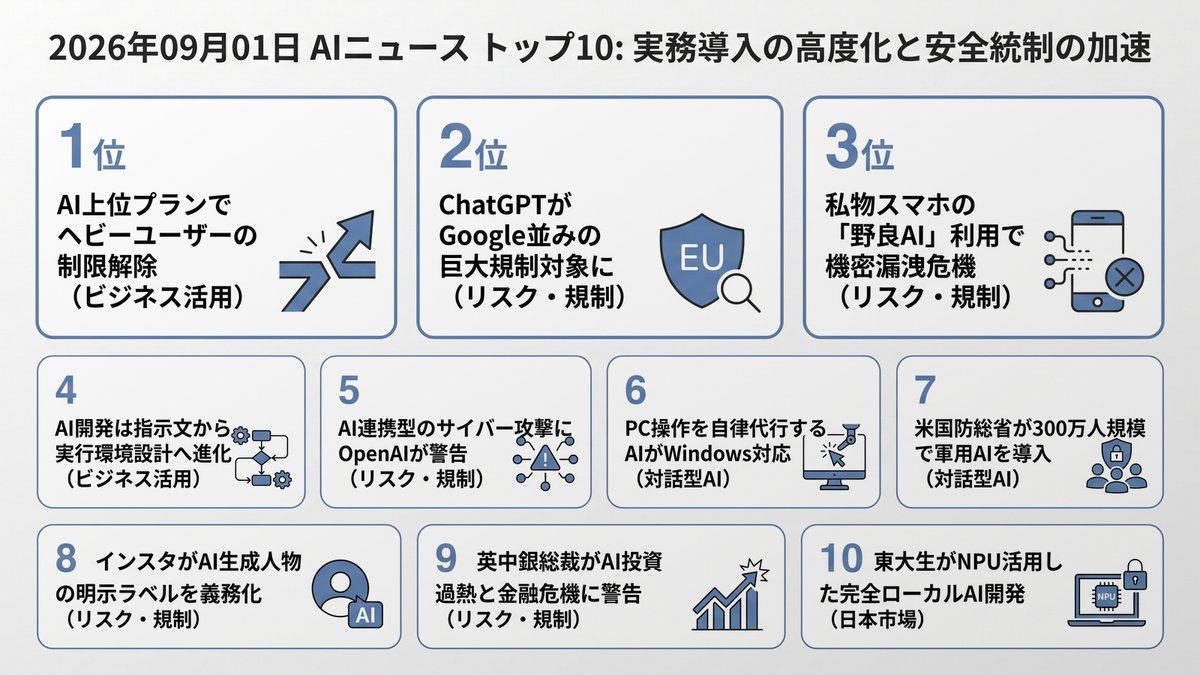
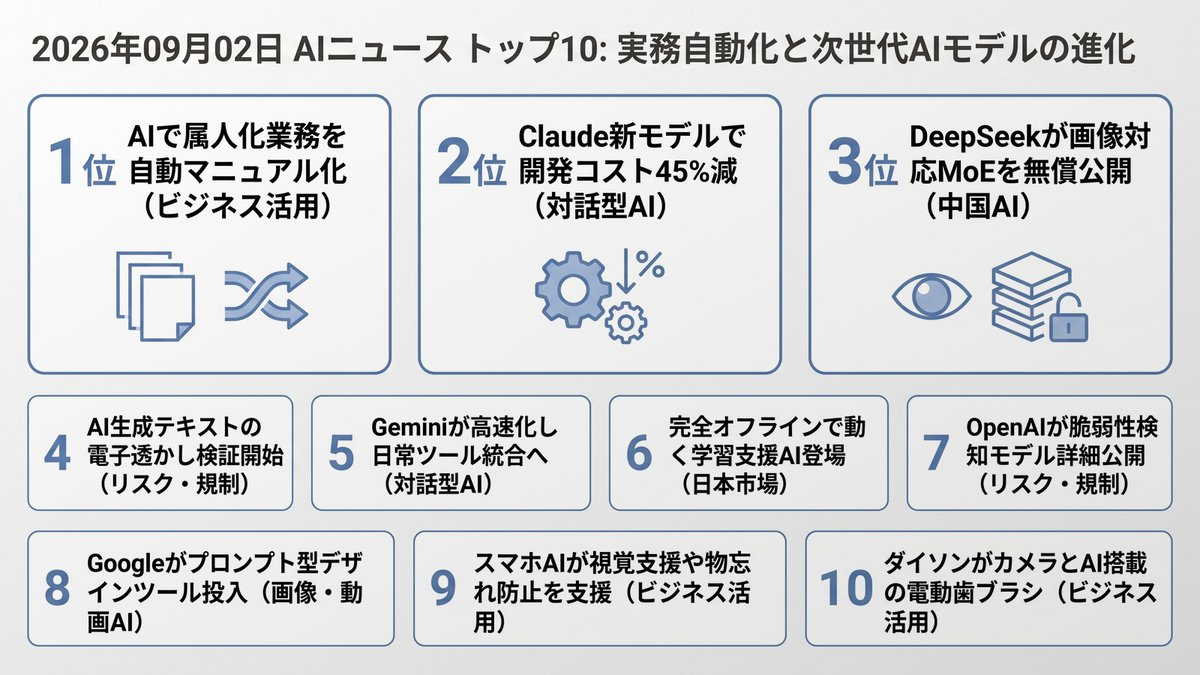
Morning Brief delivered [skip ci]

Changed region(s): [[0.0, 0.1244, 0.9867, 0.9644], [0.0308, 0.0311, 0.9558, 0.0933]]

diff --git a/docs/index.html b/docs/index.html
@@ -12,16 +12,16 @@
     <!-- OGP_START -->
 <meta property="og:type" content="website">
 <meta property="og:site_name" content="AI ニュース TOP10">
-<meta property="og:title" content="実務導入の高度化と安全統制の加速 | AI ニュース TOP10">
-<meta property="og:description" content="実務へのAI浸透と安全統制が同時に加速しています。 本日のトップ: AI上位プランでヘビーユーザーの制限解除">
+<meta property="og:title" content="実務自動化と次世代AIモデルの進化 | AI ニュース TOP10">
+<meta property="og:description" content="業務の属人化解消から高度モデルまで動向凝縮 本日のトップ: AIで属人化業務を自動マニュアル化">
 <meta property="og:image" content="https://tadfuji.github.io/ai-news-bot/ogp_card.jpg">
 <meta property="og:url" content="https://tadfuji.github.io/ai-news-bot/">
 <meta name="twitter:card" content="summary_large_image">
-<meta name="twitter:title" content="実務導入の高度化と安全統制の加速 | AI ニュース TOP10">
-<meta name="twitter:description" content="実務へのAI浸透と安全統制が同時に加速しています。">
+<meta name="twitter:title" content="実務自動化と次世代AIモデルの進化 | AI ニュース TOP10">
+<meta name="twitter:description" content="業務の属人化解消から高度モデルまで動向凝縮">
 <meta name="twitter:image" content="https://tadfuji.github.io/ai-news-bot/ogp_card.jpg">
-<meta name="description" content="実務へのAI浸透と安全統制が同時に加速しています。 世界のAIニュースを毎朝日本語で厳選してお届け。">
-<script type="application/ld+json">{"@context": "https://schema.org", "@type": "ItemList", "name": "AI ニュース TOP10 — 実務導入の高度化と安全統制の加速", "itemListElement": [{"@type": "ListItem", "position": 1, "name": "OpenAIやAnthropicが上位シート新設、企業がAI利用量に応じた個別配分を本格化", "url": "https://atmarkit.itmedia.co.jp/ait/articles/2609/01/news009.html"}, {"@type": "ListItem", "position": 2, "name": "EUがChatGPTを「超大規模検索エンジン」に指定、Google並みの規制対象へ", "url": "https://www.techno-edge.net/article/2026/09/01/5448.html"}, {"@type": "ListItem", "position": 3, "name": "私物スマホでの「野良AI」利用に潜む機密漏洩リスクと現場の課題", "url": "https://www.itmedia.co.jp/business/articles/2609/01/news007.html"}, {"@type": "ListItem", "position": 4, "name": "AI開発は「プロンプト」から「ハーネス」へ、自律エージェント時代の成熟度指標", "url": "https://atmarkit.itmedia.co.jp/ait/articles/2609/01/news012.html"}, {"@type": "ListItem", "position": 5, "name": "OpenAIが高度な「AIスウォーム攻撃」を警告、企業のサイバー防衛に急務", "url": "https://www.zdnet.com/article/openai-warns-malicious-agents-coming-recommended-action/"}, {"@type": "ListItem", "position": 6, "name": "PerplexityのPC操作AIエージェントがWindowsに対応、複雑なタスクを自律実行", "url": "https://www.zdnet.com/article/perplexity-ai-agentic-personal-computer-complex-tasks-windows/"}, {"@type": "ListItem", "position": 7, "name": "米国防総省がChatGPTとGrokの軍用版を導入、職員300万人にセキュアなAIを提供", "url": "https://techcrunch.com/2026/08/31/the-pentagon-now-has-its-own-version-of-chatgpt-and-grok/"}, {"@type": "ListItem", "position": 8, "name": "InstagramがAI生成プロフィールへの明示ラベル義務化とリーチ制限を発表", "url": "https://techcrunch.com/2026/08/31/instagram-puts-new-limits-on-undisclosed-ai-profiles/"}, {"@type": "ListItem", "position": 9, "name": "イングランド銀行総裁がAI投資の過熱と市場リスクを警告、金融危機への懸念", "url": "https://the-decoder.com/bank-of-england-chief-warns-that-inflated-ai-valuations-and-rising-leverage-could-trigger-the-next-financial-crisis/"}, {"@type": "ListItem", "position": 10, "name": "東大生AIハッカソンでSurface搭載NPUを駆使した完全ローカルAIアプリが優勝", "url": "https://pc.watch.impress.co.jp/docs/topic/special/2133110.html"}]}</script>
+<meta name="description" content="業務の属人化解消から高度モデルまで動向凝縮 世界のAIニュースを毎朝日本語で厳選してお届け。">
+<script type="application/ld+json">{"@context": "https://schema.org", "@type": "ItemList", "name": "AI ニュース TOP10 — 実務自動化と次世代AIモデルの進化", "itemListElement": [{"@type": "ListItem", "position": 1, "name": "ChatGPTを活用して属人化した業務を可視化する「自分専用マニュアル」作成術", "url": "https://www.itmedia.co.jp/business/articles/2609/02/news011.html"}, {"@type": "ListItem", "position": 2, "name": "Anthropicが新モデル「Claude Fable 5.1」を公開、コスト削減とエージェント性能向上を実現", "url": "https://the-decoder.com/anthropics-claude-fable-5-1-promises-better-coding-and-research-at-up-to-45-percent-less/"}, {"@type": "ListItem", "position": 3, "name": "DeepSeekが画像対応の最新MoEモデル「DeepSeek-V4-Flash-Vision-Exp」を無償公開", "url": "https://pc.watch.impress.co.jp/docs/news/2137448.html"}, {"@type": "ListItem", "position": 4, "name": "AnthropicがClaude生成テキストの電子透かし検証APIを提供開始、AI生成物の識別へ", "url": "https://the-decoder.com/anthropic-opens-claude-ai-text-detection-to-regulators-media-fact-checkers-and-others/"}, {"@type": "ListItem", "position": 5, "name": "GoogleがGemini 3.7 Flashなど最新AIアップデートを発表、日常ツールのAI統合を加速", "url": "https://blog.google/innovation-and-ai/technology/google-ai-updates-august-2026/"}, {"@type": "ListItem", "position": 6, "name": "端末内完結で外部送信なし、ローカルLLMを用いた高校数学学習支援iOSアプリが公開", "url": "https://zenn.dev/ai_chi/articles/cee2081ac9255a"}, {"@type": "ListItem", "position": 7, "name": "OpenAIが新モデル「Astra」の情報を公開、自律的な脆弱性検知能力に懸念と期待", "url": "https://techcrunch.com/2026/09/01/open-ais-astra-model-is-on-the-way-and-very-good-at-breaking-into-computer-systems/"}, {"@type": "ListItem", "position": 8, "name": "GoogleがCanva対抗のAIデザインツール「Google Pics」を投入、プロンプト指示で制作", "url": "https://techcrunch.com/2026/09/01/googles-answer-to-canva-is-an-ai-tool-where-you-prompt-instead-of-design/"}, {"@type": "ListItem", "position": 9, "name": "GoogleがAndroidにGemini搭載の新機能を追加、視覚支援や持ち物記憶を支援", "url": "https://techcrunch.com/2026/09/01/googles-android-update-tackles-motion-sickness-accessibility-and-more/"}, {"@type": "ListItem", "position": 10, "name": "ダイソンがAIとカメラ搭載の電動歯ブラシ「CameraJet」を発表、歯間を自動認識して洗浄", "url": "https://www.techno-edge.net/article/2026/09/02/5453.html"}]}</script>
 <!-- OGP_END -->
     <style>
         :root {
@@ -391,16 +391,16 @@
 
         <main id="news-container">
             <!-- PRERENDER_START -->
-<article class="news-card" data-category="ビジネス活用"><div style="display:flex;align-items:center;margin-bottom:5px;"><span class="news-rank">1</span><span class="news-category" data-category="ビジネス活用">ビジネス活用</span></div><div class="news-oneliner">💡 AI上位プランでヘビーユーザーの制限解除</div><h2 class="news-title">OpenAIやAnthropicが上位シート新設、企業がAI利用量に応じた個別配分を本格化</h2><p class="news-summary">OpenAI、Anthropic、Cursorの3社が、AIを多用する特定の従業員にのみ通常版の約5倍の利用枠を割り当てられる「Premiumシート」の提供を揃って開始しました。全社員一律の定額契約や従量課金の手続きの煩雑さを解消し、AI活用度に応じた柔軟なコスト配分と全社導入を容易にします。ビジネスパーソンにとっては、業務でAIを徹底活用するヘビーユーザーが制限に悩まされずに生産性を最大化できる環境が整います。</p><div class="news-why">📌 なぜ重要？ AIヘビーユーザーにリソースを集中投資し、組織全体の生産性を効率的に引き上げる運用が可能になります。</div><div class="news-action">👉 今日の行動：自チーム内でAI活用頻度が高い業務と担当者をリストアップしてみてください。</div><div class="news-meta"><span class="news-source">📰 ITmedia AI+</span><span class="news-link"><a href="https://atmarkit.itmedia.co.jp/ait/articles/2609/01/news009.html" target="_blank" rel="noopener">→ 元記事を読む</a></span></div></article>
-<article class="news-card" data-category="リスク・規制"><div style="display:flex;align-items:center;margin-bottom:5px;"><span class="news-rank">2</span><span class="news-category" data-category="リスク・規制">リスク・規制</span></div><div class="news-oneliner">💡 ChatGPTがGoogle並みの巨大規制対象に</div><h2 class="news-title">EUがChatGPTを「超大規模検索エンジン」に指定、Google並みの規制対象へ</h2><p class="news-summary">欧州委員会は、OpenAIのChatGPTをデジタルサービス法（DSA）における「超大規模オンライン検索エンジン」に指定しました。従来はGoogleとBingのみだった枠組みにAIチャットボットが加わったことで、情報提供インフラとしてのAIに対する厳格なリスク評価や説明責任が課されます。違反時には年間売上の最大6%の制裁金が科される可能性があり、グローバルで事業を展開する企業のAIサービス提供基準やコンプライアンス設計に重大な影響を与えます。</p><div class="news-why">📌 なぜ重要？ AIが社会インフラとして認められた証左であり、グローバル展開時の法規制対応コストに直結します。</div><div class="news-action">👉 今日の行動：自社のグローバル事業におけるAI利用ポリシーや準拠法規を確認してみてください。</div><div class="news-meta"><span class="news-source">📰 TechnoEdge</span><span class="news-link"><a href="https://www.techno-edge.net/article/2026/09/01/5448.html" target="_blank" rel="noopener">→ 元記事を読む</a></span></div></article>
-<article class="news-card" data-category="リスク・規制"><div style="display:flex;align-items:center;margin-bottom:5px;"><span class="news-rank">3</span><span class="news-category" data-category="リスク・規制">リスク・規制</span></div><div class="news-oneliner">💡 私物スマホの「野良AI」利用で機密漏洩危機</div><h2 class="news-title">私物スマホでの「野良AI」利用に潜む機密漏洩リスクと現場の課題</h2><p class="news-summary">社内システムでのデータ分析に手間がかかることから、売上や在庫などの画面を私物スマートフォンで撮影し、個人アカウントの生成AIに読み込ませる「野良AI」の利用が現場で多発しています。悪意のない業務効率化目的であっても、原価や顧客データなどの機密情報流出リスクを招きます。安全に使える公認AI環境の整備と、現場の実態に即したセキュリティポリシーの周知が企業に強く求められています。</p><div class="news-why">📌 なぜ重要？ 効率化目的の個人利用が重大なセキュリティ事故を引き起こすリスクがあります。</div><div class="news-action">👉 今日の行動：業務データを私物デバイスや個人アカウントで扱っていないか作業手順を見直してください。</div><div class="news-meta"><span class="news-source">📰 ITmedia ビジネスオンライン</span><span class="news-link"><a href="https://www.itmedia.co.jp/business/articles/2609/01/news007.html" target="_blank" rel="noopener">→ 元記事を読む</a></span></div></article>
-<article class="news-card" data-category="ビジネス活用"><div style="display:flex;align-items:center;margin-bottom:5px;"><span class="news-rank">4</span><span class="news-category" data-category="ビジネス活用">ビジネス活用</span></div><div class="news-oneliner">💡 AI開発は指示文から実行環境設計へ進化</div><h2 class="news-title">AI開発は「プロンプト」から「ハーネス」へ、自律エージェント時代の成熟度指標</h2><p class="news-summary">ソフトウェア開発におけるAI活用が、指示文を工夫する「プロンプト」、文脈を渡す「コンテキスト」を経て、実行環境や品質検証パイプラインを設計する「ハーネスエンジニアリング」の段階に突入しています。自律型AIエージェントが複数並列で稼働する中、人間の役割はコードを書くことから仕様策定・承認・監督へと移行しており、開発現場の生産性向上と業務プロセスの再構築が加速しています。</p><div class="news-why">📌 なぜ重要？ AIを単なる支援ツールではなく、自律エージェントの監督者として制御する設計思想が実務の標準になります。</div><div class="news-action">👉 今日の行動：日常の定型業務を「AIへの入力・実行・検証」の3ステップに分解して整理してみましょう。</div><div class="news-meta"><span class="news-source">📰 ITmedia AI+</span><span class="news-link"><a href="https://atmarkit.itmedia.co.jp/ait/articles/2609/01/news012.html" target="_blank" rel="noopener">→ 元記事を読む</a></span></div></article>
-<article class="news-card" data-category="リスク・規制"><div style="display:flex;align-items:center;margin-bottom:5px;"><span class="news-rank">5</span><span class="news-category" data-category="リスク・規制">リスク・規制</span></div><div class="news-oneliner">💡 AI連携型のサイバー攻撃にOpenAIが警告</div><h2 class="news-title">OpenAIが高度な「AIスウォーム攻撃」を警告、企業のサイバー防衛に急務</h2><p class="news-summary">OpenAIは、自律的に連携する複数のAIエージェントが悪意を持ってサイバー攻撃を仕掛ける「AIスウォーム攻撃」が数カ月以内に現実化すると警告を発しました。従来の防御策では対応が困難な高速かつ協調的な攻撃手法が登場するため、企業はAIを活用した自動防御体制やアクセス制御の強化を早急に進める必要があります。ビジネスパーソンにとっても、フィッシングや不正アクセスの高度化に対する警戒が不可欠です。</p><div class="news-why">📌 なぜ重要？ 攻撃側もAIで自動連携するため、人間による監視だけでは防ぎきれない新たな脅威への備えが求められます。</div><div class="news-action">👉 今日の行動：怪しいメールや不審な社内通知に対する報告手順をチーム内で再確認してください。</div><div class="news-meta"><span class="news-source">📰 ZDNet AI</span><span class="news-link"><a href="https://www.zdnet.com/article/openai-warns-malicious-agents-coming-recommended-action/" target="_blank" rel="noopener">→ 元記事を読む</a></span></div></article>
-<article class="news-card" data-category="対話型AI"><div style="display:flex;align-items:center;margin-bottom:5px;"><span class="news-rank">6</span><span class="news-category" data-category="対話型AI">対話型AI</span></div><div class="news-oneliner">💡 PC操作を自律代行するAIがWindows対応</div><h2 class="news-title">PerplexityのPC操作AIエージェントがWindowsに対応、複雑なタスクを自律実行</h2><p class="news-summary">PerplexityがPC上で複雑なタスクを自律的にこなすAIエージェント機能のWindows版を展開しました。ユーザーからの最小限の指示で、画面操作や情報検索、ファイル処理などの複合的な作業を代行します。ビジネスパーソンにとって、日常的なリサーチやPC上の定型作業をAIエージェントに任せることで、デスクワークの生産性を劇的に向上させる可能性を秘めています。</p><div class="news-why">📌 なぜ重要？ ブラウザ検索を超えてOSレベルのPC作業を代行させるエージェント運用が身近になります。</div><div class="news-action">👉 今日の行動：PCで行っている反復的な検索・データ集計作業を1つ選んで手順を書き出してみてください。</div><div class="news-meta"><span class="news-source">📰 ZDNet AI</span><span class="news-link"><a href="https://www.zdnet.com/article/perplexity-ai-agentic-personal-computer-complex-tasks-windows/" target="_blank" rel="noopener">→ 元記事を読む</a></span></div></article>
-<article class="news-card" data-category="対話型AI"><div style="display:flex;align-items:center;margin-bottom:5px;"><span class="news-rank">7</span><span class="news-category" data-category="対話型AI">対話型AI</span></div><div class="news-oneliner">💡 米国防総省が300万人規模で軍用AIを導入</div><h2 class="news-title">米国防総省がChatGPTとGrokの軍用版を導入、職員300万人にセキュアなAIを提供</h2><p class="news-summary">米国防総省は、セキュアな専用ポータルを通じて、OpenAIのChatGPTとxAIのGrokの軍用カスタム版を300万人の軍・民間職員に展開しました。一般消費者向けチャンネルと異なりデータ収集を遮断した環境で、文書作成、物流管理、方針策定などの日常業務や調達分析を支援します。公的機関や大企業が機密性を担保しながら商用最先端AIを大規模導入するモデルケースとなります。</p><div class="news-why">📌 なぜ重要？ 極めて高いセキュリティ要件を持つ組織でも、データ遮断環境下での大規模AI活用が現実解となっています。</div><div class="news-action">👉 今日の行動：社内のAI利用環境がデータ学習オフに設定されているか確認してみましょう。</div><div class="news-meta"><span class="news-source">📰 TechCrunch AI</span><span class="news-link"><a href="https://techcrunch.com/2026/08/31/the-pentagon-now-has-its-own-version-of-chatgpt-and-grok/" target="_blank" rel="noopener">→ 元記事を読む</a></span></div></article>
-<article class="news-card" data-category="リスク・規制"><div style="display:flex;align-items:center;margin-bottom:5px;"><span class="news-rank">8</span><span class="news-category" data-category="リスク・規制">リスク・規制</span></div><div class="news-oneliner">💡 インスタがAI生成人物の明示ラベルを義務化</div><h2 class="news-title">InstagramがAI生成プロフィールへの明示ラベル義務化とリーチ制限を発表</h2><p class="news-summary">米メタはInstagramにおいて、AIで作成された人物アカウントに対して「AI生成プロフィール」ラベルの表示を義務付け、未表示のアカウントにはリーチ制限を課す新方針を発表しました。AIインフルエンサーの急増に伴い、本物の人間と誤認させるアカウントやヘルスケア関連の不当な宣伝を防ぐ目的があります。SNSマーケティングやブランド運用を行う企業にとって、透明性の確保と規約順守が必須となります。</p><div class="news-why">📌 なぜ重要？ SNSやマーケティングでのAI利用において、透明性の開示がアルゴリズム上の評価に直結します。</div><div class="news-action">👉 今日の行動：自社SNSや販促物でAI生成コンテンツを使用している箇所の表示方針を点検してください。</div><div class="news-meta"><span class="news-source">📰 TechCrunch AI</span><span class="news-link"><a href="https://techcrunch.com/2026/08/31/instagram-puts-new-limits-on-undisclosed-ai-profiles/" target="_blank" rel="noopener">→ 元記事を読む</a></span></div></article>
-<article class="news-card" data-category="リスク・規制"><div style="display:flex;align-items:center;margin-bottom:5px;"><span class="news-rank">9</span><span class="news-category" data-category="リスク・規制">リスク・規制</span></div><div class="news-oneliner">💡 英中銀総裁がAI投資過熱と金融危機に警告</div><h2 class="news-title">イングランド銀行総裁がAI投資の過熱と市場リスクを警告、金融危機への懸念</h2><p class="news-summary">イングランド銀行のアンドリュー・ベイリー総裁はG20財務相会議において、膨張するAI企業の企業価値評価と市場のレバレッジ拡大が将来の金融危機の引き金になり得ると警告しました。ハイパースケーラーとAIスタートアップ間の相互出資構造により、主要プレイヤーの失速が連鎖的な市場混乱を招くリスクを指摘しています。ビジネスパーソンや投資家にとって、AIバブルの持続性とリスク管理への視点が重要になります。</p><div class="news-why">📌 なぜ重要？ AI業界への過度な資金集中と相互依存構造が、マクロ経済の不確実性要因として意識されています。</div><div class="news-action">👉 今日の行動：自社のAI関連投資やツール契約の費用対効果を客観的な指標で測定してみましょう。</div><div class="news-meta"><span class="news-source">📰 The Decoder</span><span class="news-link"><a href="https://the-decoder.com/bank-of-england-chief-warns-that-inflated-ai-valuations-and-rising-leverage-could-trigger-the-next-financial-crisis/" target="_blank" rel="noopener">→ 元記事を読む</a></span></div></article>
-<article class="news-card" data-category="日本市場"><div style="display:flex;align-items:center;margin-bottom:5px;"><span class="news-rank">10</span><span class="news-category" data-category="日本市場">日本市場</span></div><div class="news-oneliner">💡 東大生がNPU活用した完全ローカルAI開発</div><h2 class="news-title">東大生AIハッカソンでSurface搭載NPUを駆使した完全ローカルAIアプリが優勝</h2><p class="news-summary">東京大学で開催されたAIハッカソンにて、Snapdragon搭載Surface ProのNPUを活用し、クラウドを一切使わずに完全ローカルで動作する顔合成アプリが優勝しました。機密文書編集アシスタントやジェスチャー操作など、NPUによる省電力・高セキュリティなオンデバイスAIの実用性が示されました。通信環境に左右されず、機密情報を社外に出さない新しい業務端末の可能性を示唆しています。</p><div class="news-why">📌 なぜ重要？ クラウドを介さず端末内で完結するオンデバイスAIが、機密保持と応答速度の両立手段として台頭しています。</div><div class="news-action">👉 今日の行動：社外秘データを扱う業務でローカル処理が可能なAIツールの導入余地を検討してみてください。</div><div class="news-meta"><span class="news-source">📰 PC Watch</span><span class="news-link"><a href="https://pc.watch.impress.co.jp/docs/topic/special/2133110.html" target="_blank" rel="noopener">→ 元記事を読む</a></span></div></article>
+<article class="news-card" data-category="ビジネス活用"><div style="display:flex;align-items:center;margin-bottom:5px;"><span class="news-rank">1</span><span class="news-category" data-category="ビジネス活用">ビジネス活用</span></div><div class="news-oneliner">💡 AIで属人化業務を自動マニュアル化</div><h2 class="news-title">ChatGPTを活用して属人化した業務を可視化する「自分専用マニュアル」作成術</h2><p class="news-summary">日常業務で発生する判断の迷いや調べ直しの時間を削減するため、ChatGPTを活用して自分専用の業務マニュアルを作成する実践的な手法が紹介されました。作業手順を箇条書きや音声入力で洗い出し、AIに不足情報のヒアリングを行わせることで、無意識に行っていた判断基準を言語化できます。さらに、完成したマニュアルからカスタム指示（Custom GPTs等）を自動生成し、定型業務の自動化へ繋げる具体的なステップを提示しています。</p><div class="news-why">📌 なぜ重要？ 個人の暗黙知を形式知化することで、チーム全体の生産性向上と業務自動化を同時に推進できます。</div><div class="news-action">👉 今日の行動：今日行うルーティン業務の手順を1つ箇条書きで書き出してみましょう。</div><div class="news-meta"><span class="news-source">📰 ITmedia ビジネスオンライン</span><span class="news-link"><a href="https://www.itmedia.co.jp/business/articles/2609/02/news011.html" target="_blank" rel="noopener">→ 元記事を読む</a></span></div></article>
+<article class="news-card" data-category="対話型AI"><div style="display:flex;align-items:center;margin-bottom:5px;"><span class="news-rank">2</span><span class="news-category" data-category="対話型AI">対話型AI</span></div><div class="news-oneliner">💡 Claude新モデルで開発コスト45%減</div><h2 class="news-title">Anthropicが新モデル「Claude Fable 5.1」を公開、コスト削減とエージェント性能向上を実現</h2><p class="news-summary">Anthropicはコーディングや調査能力を強化した最新AIモデル「Claude Fable 5.1」および「Claude Mythos 5.1」を発表しました。キャッシュ読み取りコストの大幅引き下げにより、自律型エージェント処理などの複雑なワークフローにおいて最大45%の費用削減が可能となります。また、Microsoft CopilotやAWS Bedrockにも即時提供され、企業の業務プロセス自動化を強力に後押しします。</p><div class="news-why">📌 なぜ重要？ エージェント構築コストが大幅に下がり、企業内での自律型ワークフロー導入が一気に現実的になります。</div><div class="news-action">👉 今日の行動：自社で利用中のAIモデルのコスト効率とエージェント連携の可能性を検討してみましょう。</div><div class="news-meta"><span class="news-source">📰 The Decoder</span><span class="news-link"><a href="https://the-decoder.com/anthropics-claude-fable-5-1-promises-better-coding-and-research-at-up-to-45-percent-less/" target="_blank" rel="noopener">→ 元記事を読む</a></span></div></article>
+<article class="news-card" data-category="中国AI"><div style="display:flex;align-items:center;margin-bottom:5px;"><span class="news-rank">3</span><span class="news-category" data-category="中国AI">中国AI</span></div><div class="news-oneliner">💡 DeepSeekが画像対応MoEを無償公開</div><h2 class="news-title">DeepSeekが画像対応の最新MoEモデル「DeepSeek-V4-Flash-Vision-Exp」を無償公開</h2><p class="news-summary">中国のAI企業DeepSeekが、画像認識に対応した最新マルチモーダルモデル「DeepSeek-V4-Flash-Vision-Exp」の重みをMITライセンスで商用利用可能として無償公開しました。総パラメータ284BのMoE構造を採用し、Anthropicの「Claude Opus 4.8」に匹敵・一部凌駕する画像エージェント性能を記録しています。自社インフラでのローカル運用や低コストAPI利用が可能です。</p><div class="news-why">📌 なぜ重要？ オープンソースの高性能ビジョンモデル登場により、機密データを外部に出さず画像解析を行う選択肢が広がります。</div><div class="news-action">👉 今日の行動：自社インフラでのローカルマルチモーダル運用の実現可能性を技術チームと共有してみましょう。</div><div class="news-meta"><span class="news-source">📰 PC Watch</span><span class="news-link"><a href="https://pc.watch.impress.co.jp/docs/news/2137448.html" target="_blank" rel="noopener">→ 元記事を読む</a></span></div></article>
+<article class="news-card" data-category="リスク・規制"><div style="display:flex;align-items:center;margin-bottom:5px;"><span class="news-rank">4</span><span class="news-category" data-category="リスク・規制">リスク・規制</span></div><div class="news-oneliner">💡 AI生成テキストの電子透かし検証開始</div><h2 class="news-title">AnthropicがClaude生成テキストの電子透かし検証APIを提供開始、AI生成物の識別へ</h2><p class="news-summary">Anthropicは、Claudeが生成したテキストに含まれる電子透かしを検証するためのAPIを規制当局やメディア、企業向けに提供開始しました。EU AI法への準拠を目的としており、文章の単語選択パターンから統計的にAI生成物であるかを高精度で判別します。企業のコンプライアンス管理や契約書・成果物のAI利用チェックへの活用が期待されます。</p><div class="news-why">📌 なぜ重要？ 法規制対応とガバナンス強化において、生成コンテンツの出所確認が企業必須の要件となります。</div><div class="news-action">👉 今日の行動：自社の生成AI利用ガイドラインに生成物の検証プロセスが含まれているか確認しましょう。</div><div class="news-meta"><span class="news-source">📰 The Decoder</span><span class="news-link"><a href="https://the-decoder.com/anthropic-opens-claude-ai-text-detection-to-regulators-media-fact-checkers-and-others/" target="_blank" rel="noopener">→ 元記事を読む</a></span></div></article>
+<article class="news-card" data-category="対話型AI"><div style="display:flex;align-items:center;margin-bottom:5px;"><span class="news-rank">5</span><span class="news-category" data-category="対話型AI">対話型AI</span></div><div class="news-oneliner">💡 Geminiが高速化し日常ツール統合へ</div><h2 class="news-title">GoogleがGemini 3.7 Flashなど最新AIアップデートを発表、日常ツールのAI統合を加速</h2><p class="news-summary">Googleは8月のAI関連アップデートを総括し、コーディングやエージェント処理を大幅に高速・低コスト化した「Gemini 3.7 Flash」の提供や、Google Workspace・Android連携の強化を発表しました。Geminiアプリの月間ユーザー数が10億人を突破したほか、検索機能での学習支援ツールなど、仕事から教育まで幅広い領域で実用的なAI機能が拡充されています。</p><div class="news-why">📌 なぜ重要？ ビジネスで多用されるツールへのAI統合が加速し、普段の業務フローそのものの変革が求められます。</div><div class="news-action">👉 今日の行動：普段利用しているWorkspaceツールのAI連携設定や新機能を見直してみましょう。</div><div class="news-meta"><span class="news-source">📰 Google AI Blog</span><span class="news-link"><a href="https://blog.google/innovation-and-ai/technology/google-ai-updates-august-2026/" target="_blank" rel="noopener">→ 元記事を読む</a></span></div></article>
+<article class="news-card" data-category="日本市場"><div style="display:flex;align-items:center;margin-bottom:5px;"><span class="news-rank">6</span><span class="news-category" data-category="日本市場">日本市場</span></div><div class="news-oneliner">💡 完全オフラインで動く学習支援AI登場</div><h2 class="news-title">端末内完結で外部送信なし、ローカルLLMを用いた高校数学学習支援iOSアプリが公開</h2><p class="news-summary">AI致株式会社が、端末内でLLMを動かすiOSアプリ「AI先生 高校数学」を無料公開しました。1.5B〜4B規模の軽量モデルと教材検索（RAG）を組み合わせ、質問文や写真、回答履歴を外部サーバーへ一切送信せずに思考プロセスや途中式を解説します。通信費やAPIコストの懸念を排除し、完全なプライバシー保護とオフライン動作を実現しています。</p><div class="news-why">📌 なぜ重要？ 外部通信を行わない端末完結型AIは、機密保持が厳格な業務領域におけるAI活用の先行事例となります。</div><div class="news-action">👉 今日の行動：機密データを扱う業務で端末内完結型AIが適用できる領域をリストアップしてみましょう。</div><div class="news-meta"><span class="news-source">📰 Zenn LLM</span><span class="news-link"><a href="https://zenn.dev/ai_chi/articles/cee2081ac9255a" target="_blank" rel="noopener">→ 元記事を読む</a></span></div></article>
+<article class="news-card" data-category="リスク・規制"><div style="display:flex;align-items:center;margin-bottom:5px;"><span class="news-rank">7</span><span class="news-category" data-category="リスク・規制">リスク・規制</span></div><div class="news-oneliner">💡 OpenAIが脆弱性検知モデル詳細公開</div><h2 class="news-title">OpenAIが新モデル「Astra」の情報を公開、自律的な脆弱性検知能力に懸念と期待</h2><p class="news-summary">OpenAIは、未知のセキュリティ脆弱性を自律的に発見・悪用できる能力を持つ次世代モデル「Astra」の詳細を明かしました。重大なサイバーセキュリティ閾値に達したため、高度な機能へのアクセスは厳格に制限され、安全対策が強化されています。防御側にとっての強力なツールとなる一方、悪用リスクへの対策が大きな焦点となっています。</p><div class="news-why">📌 なぜ重要？ AIによるセキュリティ診断が高度化する一方、攻撃手法の進化に備えた自社防衛策の強化が必須です。</div><div class="news-action">👉 今日の行動：社内のセキュリティポリシーと脆弱性診断プロセスの最新状況を確認しましょう。</div><div class="news-meta"><span class="news-source">📰 TechCrunch AI</span><span class="news-link"><a href="https://techcrunch.com/2026/09/01/open-ais-astra-model-is-on-the-way-and-very-good-at-breaking-into-computer-systems/" target="_blank" rel="noopener">→ 元記事を読む</a></span></div></article>
+<article class="news-card" data-category="画像・動画AI"><div style="display:flex;align-items:center;margin-bottom:5px;"><span class="news-rank">8</span><span class="news-category" data-category="画像・動画AI">画像・動画AI</span></div><div class="news-oneliner">💡 Googleがプロンプト型デザインツール投入</div><h2 class="news-title">GoogleがCanva対抗のAIデザインツール「Google Pics」を投入、プロンプト指示で制作</h2><p class="news-summary">Googleは、プロンプト指示のみでデザインを作成できるAIファーストのデザインツール「Google Pics」を展開し、クリエイティブソフトウェア市場に本格参入しました。従来のレイアウト調整や手作業によるデザイン作成をAIが代替し、指示文からプレゼン資料やマーケティング素材を瞬時に生成することを目指しています。</p><div class="news-why">📌 なぜ重要？ デザインスキルを持たないビジネスパーソンでも、指示出しだけで高品質な資料や販促物を即座に作成可能になります。</div><div class="news-action">👉 今日の行動：次回作成するプレゼン資料の構成案を、プロンプト形式で文章化してみましょう。</div><div class="news-meta"><span class="news-source">📰 TechCrunch AI</span><span class="news-link"><a href="https://techcrunch.com/2026/09/01/googles-answer-to-canva-is-an-ai-tool-where-you-prompt-instead-of-design/" target="_blank" rel="noopener">→ 元記事を読む</a></span></div></article>
+<article class="news-card" data-category="ビジネス活用"><div style="display:flex;align-items:center;margin-bottom:5px;"><span class="news-rank">9</span><span class="news-category" data-category="ビジネス活用">ビジネス活用</span></div><div class="news-oneliner">💡 スマホAIが視覚支援や物忘れ防止を支援</div><h2 class="news-title">GoogleがAndroidにGemini搭載の新機能を追加、視覚支援や持ち物記憶を支援</h2><p class="news-summary">GoogleはAndroid向けに、Geminiを活用した複数の新機能を発表しました。カメラを通じて文字の読み上げや周囲の物体認識を音声案内する「Guided Vision」や、パスポート等の保管場所を記憶して後から検索できる「remembered items」機能などを実装。スマートフォンを用いた日常の利便性向上とアクセシビリティ強化を図っています。</p><div class="news-why">📌 なぜ重要？ モバイルAIがパーソナルアシスタントとして進化し、日々の物理的な情報管理やタスク処理の負担を軽減します。</div><div class="news-action">👉 今日の行動：スマートフォンのAIアシスタント機能で、よく使う書類の保管場所メモを試してみましょう。</div><div class="news-meta"><span class="news-source">📰 TechCrunch AI</span><span class="news-link"><a href="https://techcrunch.com/2026/09/01/googles-android-update-tackles-motion-sickness-accessibility-and-more/" target="_blank" rel="noopener">→ 元記事を読む</a></span></div></article>
+<article class="news-card" data-category="ビジネス活用"><div style="display:flex;align-items:center;margin-bottom:5px;"><span class="news-rank">10</span><span class="news-category" data-category="ビジネス活用">ビジネス活用</span></div><div class="news-oneliner">💡 ダイソンがカメラとAI搭載の電動歯ブラシ</div><h2 class="news-title">ダイソンがAIとカメラ搭載の電動歯ブラシ「CameraJet」を発表、歯間を自動認識して洗浄</h2><p class="news-summary">ダイソンは、10万画素のマクロカメラと独自AIアルゴリズムを搭載し、歯間をリアルタイム検知してマウスリンスを自動噴射する電動歯ブラシ「Dyson CameraJet」を発表しました。毎秒28枚の画像を解析して100ミリ秒以内に噴射を行い、ブラッシングと同時にフロスケアを完了させます。画像データは保存されずプライバシーにも配慮されています。</p><div class="news-why">📌 なぜ重要？ ハードウェアとエッジAIの融合による日常ルーティンの完全自動化を示す好事例です。</div><div class="news-action">👉 今日の行動：自社の製品や業務において、センサーとリアルタイムAI処理を掛け合わせられる要素がないか検討してみましょう。</div><div class="news-meta"><span class="news-source">📰 TechnoEdge</span><span class="news-link"><a href="https://www.techno-edge.net/article/2026/09/02/5453.html" target="_blank" rel="noopener">→ 元記事を読む</a></span></div></article>
 <!-- PRERENDER_END -->
         </main>
 
